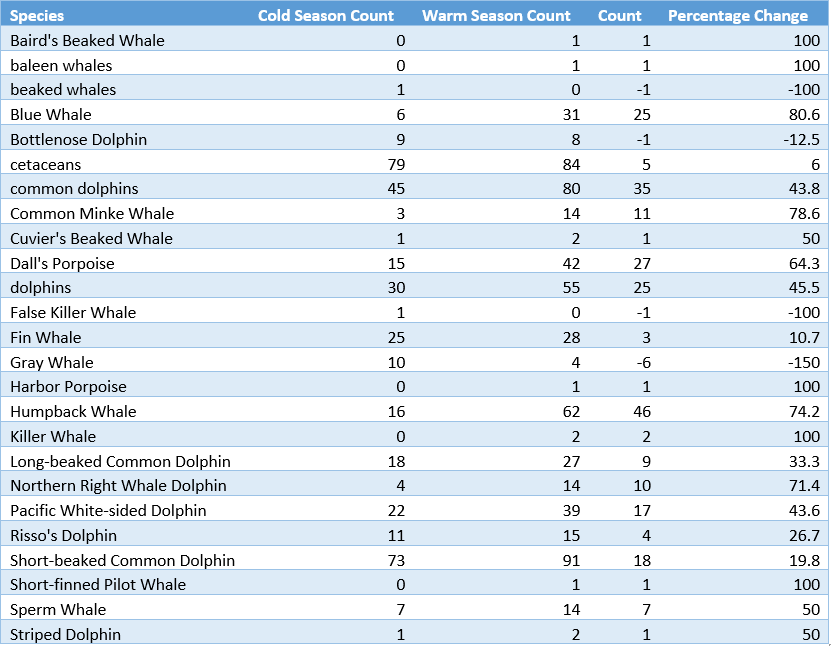
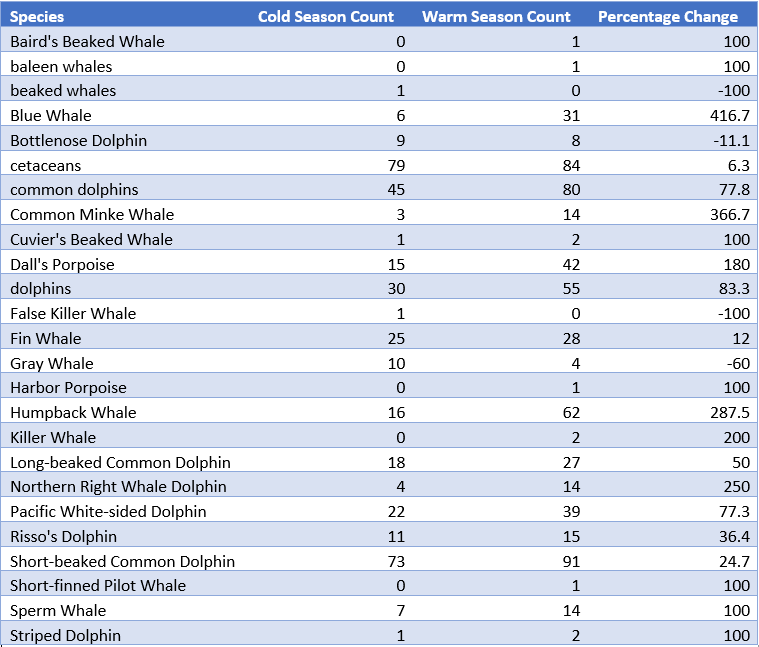
Created a new python code that looks a group_size (total population) as a time-series. graph included in storymap.

Changed region(s): [[0.0, 0.0, 1.0, 1.0], [0.6667, 0.9288, 0.697, 0.9598]]

diff --git a/data/raw/Time_Series_Analysis.py b/data/raw/Time_Series_Analysis.py
@@ -1,0 +1,80 @@
+# Creating a time-series analysis to look at overall shift in population between warmer and colder seasons
+
+# This code is used to look at observations changed between
+# seasonal subsets of the dataset (warm months & cold months) 
+# throughout time
+
+# Import libraries
+import os
+import pandas as pd
+import matplotlib.pyplot as plt
+import seaborn as sns
+
+# Set workspace
+workspace = "V:/FinalProject/data/processed"
+os.chdir(workspace)
+
+# Load CSV files that were created on ArcGIS Pro
+warm_months = "OBIS_Warm.csv"
+cold_months = "OBIS_Cold.csv"
+
+# Read CSV into dataframes
+warm_months_df = pd.read_csv(warm_months)
+cold_months_df = pd.read_csv(cold_months)
+
+# Printing the column names to ensure both dataframes have same column name
+print("Warm Months Columns:", warm_months_df.columns.tolist())
+print("Cold Months Columns:", cold_months_df.columns.tolist())
+
+# Convert 'group_size' variable to numeric parameter to be compatible for the rest of the analysis
+warm_months_df['group_size'] = pd.to_numeric(warm_months_df['group_size'])
+cold_months_df['group_size'] = pd.to_numeric(cold_months_df['group_size'])
+
+# Convert 'date_time' variable to datetime parameter to be compatible for the rest of the analysis
+warm_months_df['date_time'] = pd.to_datetime(warm_months_df['date_time'])
+cold_months_df['date_time'] = pd.to_datetime(cold_months_df['date_time'])
+
+# Extract year and month from the 'date_time' column,
+# Information found through https://stackoverflow.com/questions/23840797/convert-a-column-of-timestamps-into-periods-in-pandas
+warm_months_df['year_month'] = warm_months_df['date_time'].dt.to_period('M').dt.to_timestamp()
+cold_months_df['year_month'] = cold_months_df['date_time'].dt.to_period('M').dt.to_timestamp()
+
+# Group by 'year_month' and summarize the 'group_size' to see total group size per month for each dataframe
+warm_months_grouped = warm_months_df.groupby('year_month')['group_size'].sum().reset_index()
+cold_months_grouped = cold_months_df.groupby('year_month')['group_size'].sum().reset_index()
+
+# Add a 'season' column to differentiate between warm and cold seasons for plotting purposes
+warm_months_grouped['season'] = 'Warm'
+cold_months_grouped['season'] = 'Cold'
+
+# Combine both datasets into one dataframe
+Combined_Seasons = pd.concat([warm_months_grouped, cold_months_grouped])
+
+# Sort the combined dataset by 'year_month' 
+Combined_Seasons.sort_values('year_month', inplace=True)
+
+# Creating a color palette with blue for the cold season and red for the warm season
+season_palette = {'Warm': 'red', 'Cold': 'blue'}
+
+# Plotting the combined time-series
+plt.figure(figsize=(12, 6))
+
+# Plot for both warm and cold months on the same axis with the specified color palette
+sns.lineplot(data=Combined_Seasons, x='year_month', y='group_size', hue='season', palette=season_palette)
+
+
+# Customize the plot
+plt.title('Population Trends in Warm vs Cold Months')
+plt.xlabel('Year-Month')
+plt.ylabel('Total Group Size')
+plt.xticks(rotation=45)
+plt.legend(title='Season')
+plt.show()
+
+# Save plot to file
+plot_path = 'V:/FinalProject/photos/Time_Series_Analysis.png'
+plt.tight_layout()
+
+# Save the plot
+plt.savefig(plot_path)
+

diff --git a/data/raw/Species_Count.py b/data/raw/Species_Count.py
@@ -20,20 +20,23 @@ species_count_df = pd.read_csv(species_count)
 # Calculate the difference in obsverational counts between warm and cold seasons
 species_count_df['Count Change'] = species_count_df['Warm Season Count'] - species_count_df['Cold Season Count']
 
-# Calculate the percentage change of observational counts from cooler to warmer seasons
-species_count_df['Percentage Change'] = ((species_count_df['Warm Season Count'] - species_count_df['Cold Season Count']) 
-                                         / species_count_df['Warm Season Count']) * 100
+# Issues with other code that would produce inf and inaccurate percentage changes, used ChatGPT to aid this issue
+def calculate_percentage_change(warm_count, cold_count):
+    if cold_count == 0: 
+        if warm_count > 0:
+            return warm_count * 100  
+        else:
+            return 0.0  
+    return ((warm_count - cold_count) / cold_count) * 100
+species_count_df['Percentage Change'] = species_count_df.apply(
+    lambda row: calculate_percentage_change(row['Warm Season Count'], row['Cold Season Count']), axis=1
+)
 
-
-# Rounding the 'Percentage Change' to one decimal place
+# Round  'Percentage Change' to one decimal place
 species_count_df['Percentage Change'] = species_count_df['Percentage Change'].round(1)
 
-# Replacing possible -inf output to a value
-species_count_df['Percentage Change'] = species_count_df['Percentage Change'].replace([float('inf'), float('-inf')], -100)
-
-
-# Display the dataframe that include the percentage differnce from cooler to warm seasons 
-print(species_count_df[['Species', 'Warm Season Count', 'Cold Season Count', 'Percentage Change']])
+# Printing the dataframe with the accurate percentage change
+print(species_count_df[['Species', 'Cold Season Count','Warm Season Count', 'Percentage Change']])
 
 # Save the output as a CSV file to the processed data folder
 species_count_df.to_csv('Seasonal_Shifts.csv', index=False)
